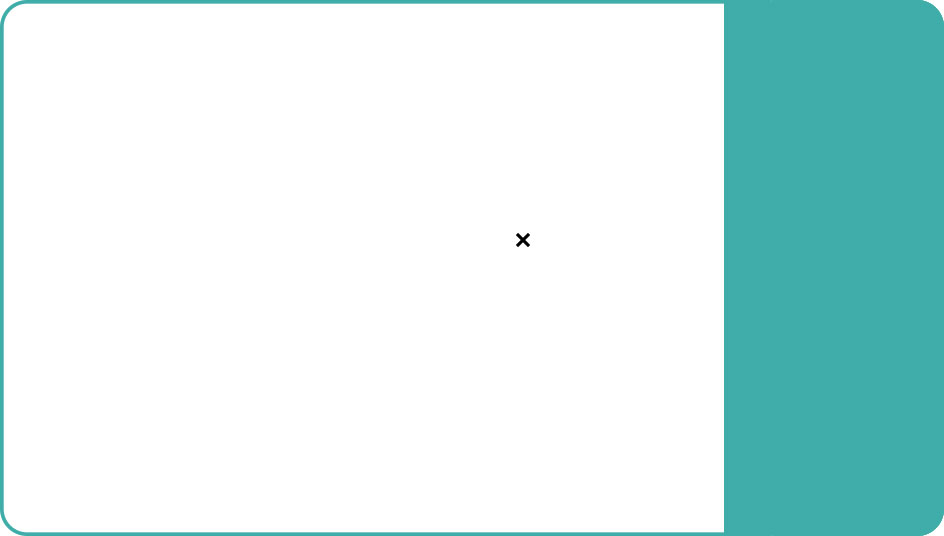
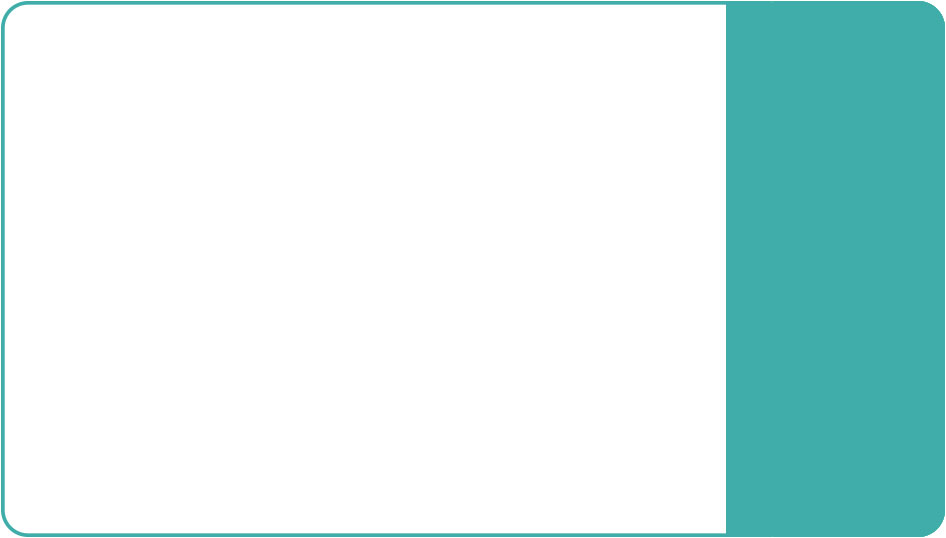
ne keer e pushke doen

Changed region(s): [[0.0, 0.0, 1.0, 1.0], [0.9831, 0.0, 1.0, 0.0299]]

diff --git a/css/screen.css b/css/screen.css
@@ -112,7 +112,7 @@ nav ul p > a{
     width:944px;
     height:536px;
     background-image: url('../images/test.jpg');
-    margin-left:100px;
+    margin-left:-50px;
     margin-top:50px;
 }
 
@@ -140,6 +140,28 @@ nav ul p > a{
 .stickyCreator{
 	color: black;
 
+}
+
+.postitform{
+	float: right;
+	margin-top: 50px;
+	color: white;
+}
+
+.postitform  h1{
+	font-size: 2em;
+	margin-bottom: 20px;
+	margin-left: 10px;
+}
+
+.postitform > form input[type=file]{
+	display: inline;
+
+}
+
+.postitform label[for=addTitle]{
+	margin-top: 10px;
+	
 }
 
 

diff --git a/view/Projects/view.php b/view/Projects/view.php
@@ -28,11 +28,12 @@
 		echo "<p>No stickies placed yet</p>";
     } ?>
 
-</section>
-
-<section>
-	<?php echo $project['id']; ?>
+  <section class="postitform">
 	<form action="index.php?page=addItem&amp;id=<?php echo $project['id']; ?>" method="post" class="form-horizontal" enctype="multipart/form-data">
+        <header>
+          <h1>New sticky note</h1>
+        </header>
+
         <div class="form-group<?php if(!empty($errors['title'])) echo ' has-error'; ?>">
             <label for="addTitle">Title:</label>
             <div>
@@ -81,6 +82,7 @@
             <div class="col-sm-offset-2 col-sm-10"><input type="submit" value="Add sticky note" class="btn btn-default"></div>
         </div>
     </form>
+    </section>
 
 
 </section>
